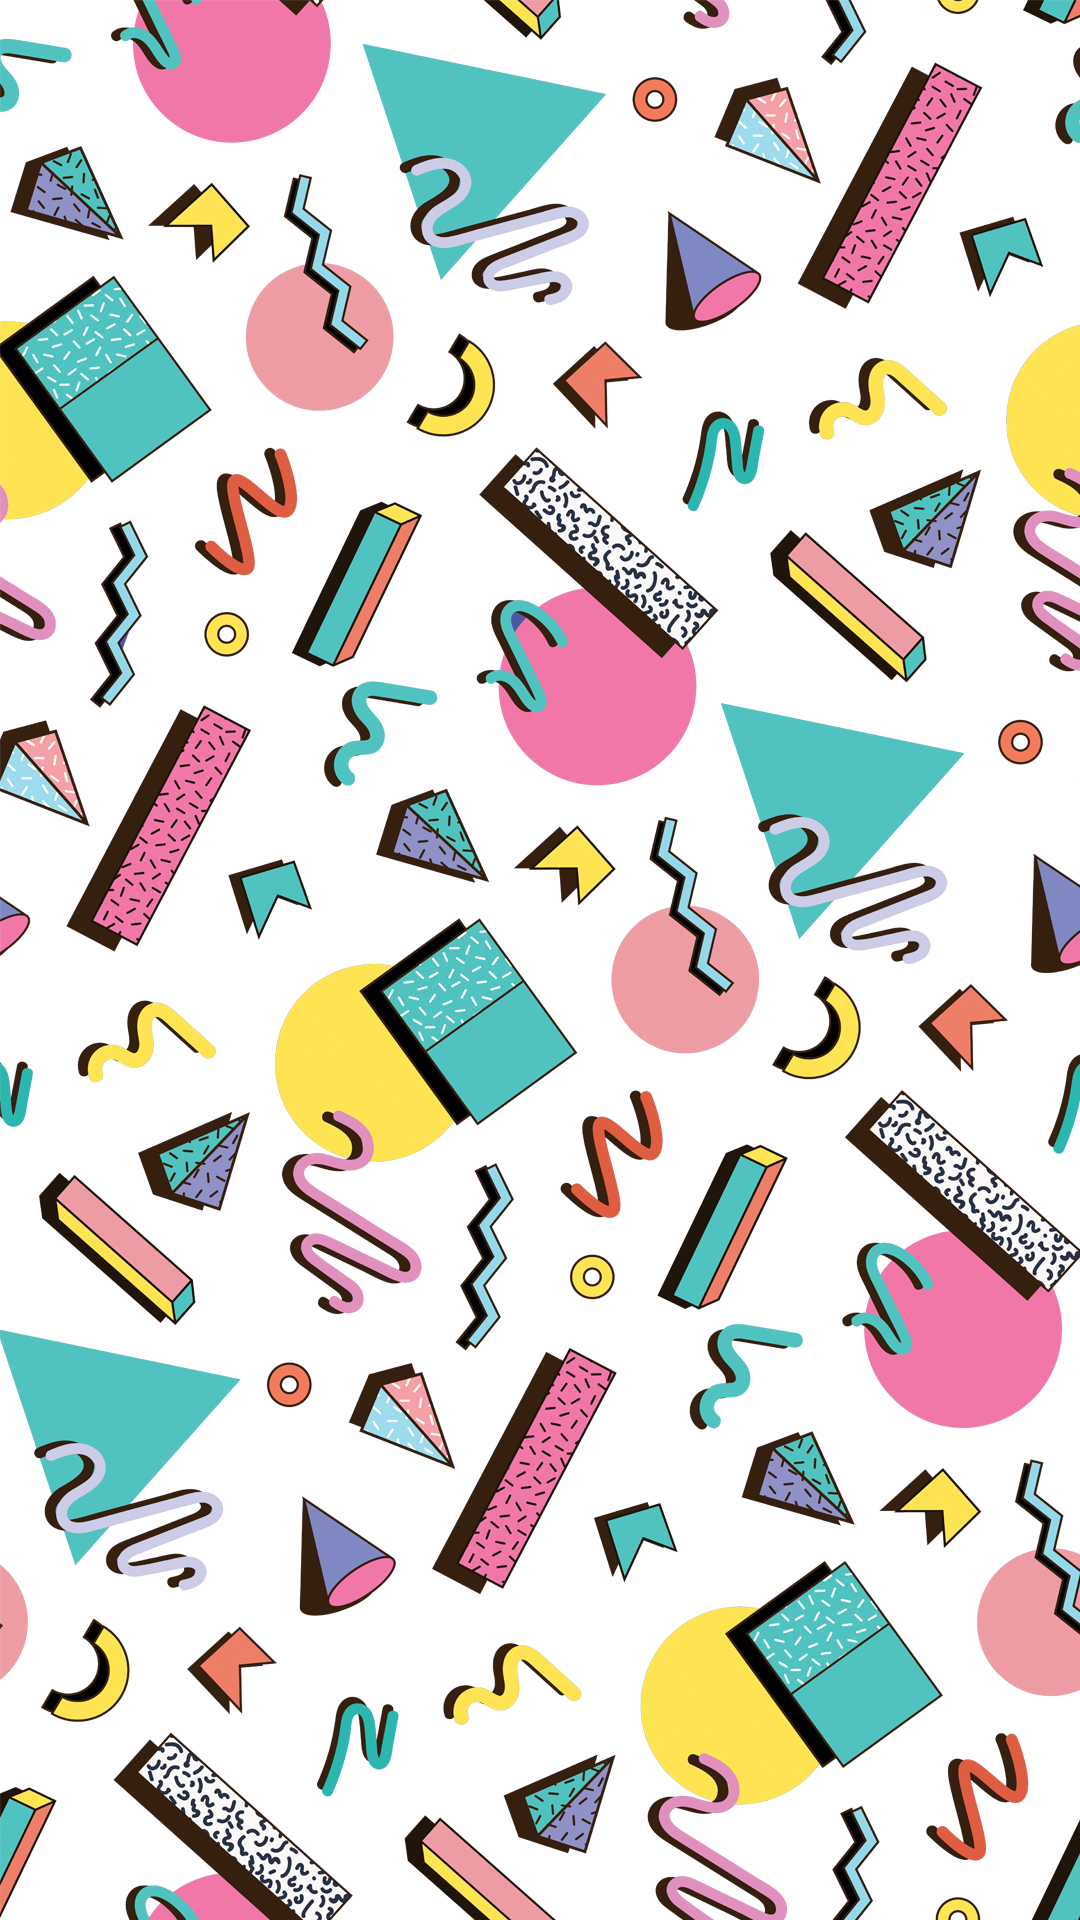
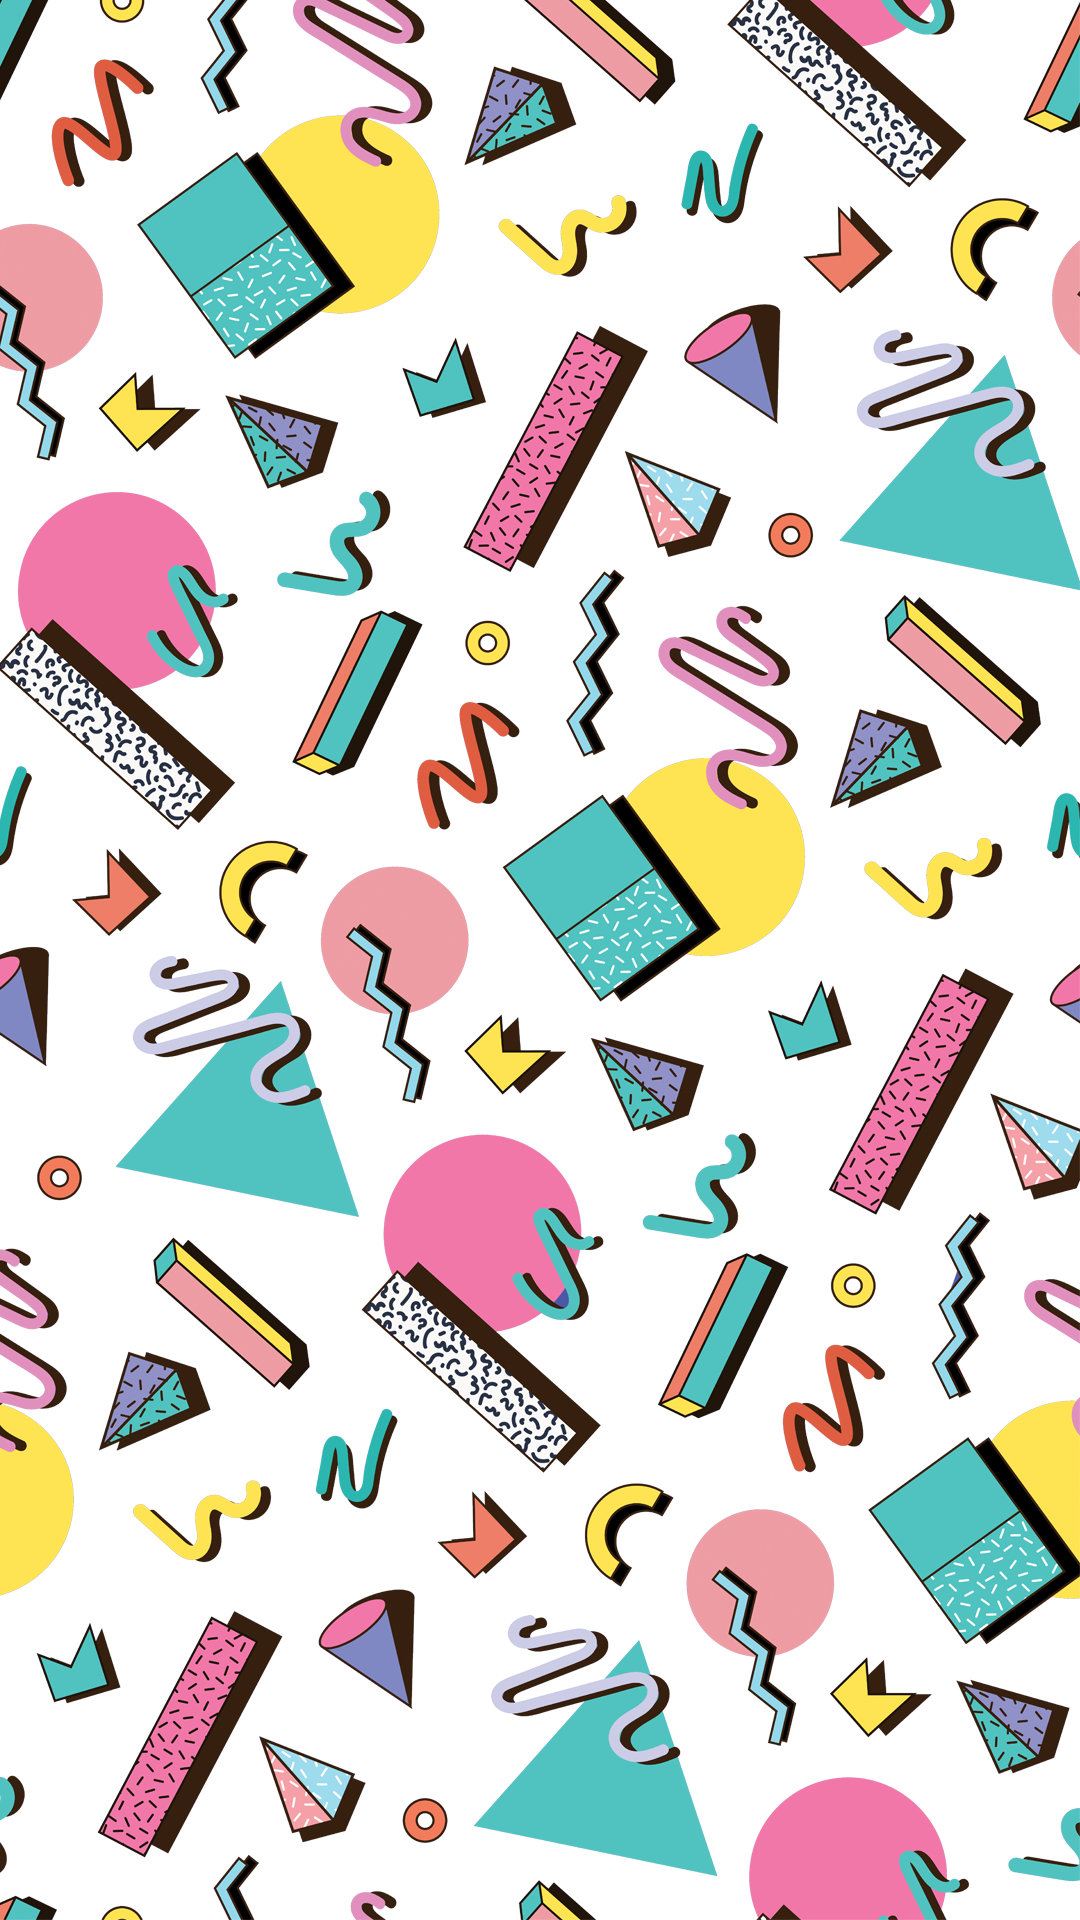
Added new bg image, changes to meme page and css

diff --git a/public/assets/css/styles.css b/public/assets/css/styles.css
@@ -14,24 +14,26 @@
 
 /* Styling for Background Image */
 body {
-  background-image: url("/assets/images/newbg.png");
+  background-image: url("newbg.png");
   background-color: #252525;
-  background-repeat: cover;
+  background-position: center;
+  background-repeat: no-repeat;
+  background-size: cover;
 }
 
-/* .parallax{
-     background-image: url("/newbg.png");
-      background-color: #252525;
-      background-repeat: repeat;
-      display: flex;
-      flex-direction: column;
-      min-height: 15rem;
-      height: 500px;
-      background-size: cover;
-      background-attachment: fixed;
-      align-items: center;
-      justify-content: center;
-  } */
+.parallax {
+  background-image: url("/newbg.png");
+  background-color: #252525;
+  background-repeat: repeat;
+  display: flex;
+  flex-direction: column;
+  min-height: 15rem;
+  height: 500px;
+  background-size: cover;
+  background-attachment: fixed;
+  align-items: center;
+  justify-content: center;
+}
 
 /* logo image styling */
 .logo-img {
@@ -44,12 +46,18 @@ body {
   font-family: "Oswald", sans-serif;
   font-size: 28px;
   font-weight: 400;
+  text-shadow: 2px 2px #4c58a7;
 }
 
 /* Meme Title Font on Meme Thumbnails */
 h2 {
   color: #fefefe;
   font-family: "Molle", serif;
+}
+
+/* Titles on pop-up modals */
+h5 {
+  color: #000000;
 }
 
 .form-control {
@@ -80,7 +88,14 @@ h2 {
   text-decoration: none;
   color: white;
   background-color: #2fd3cb;
+  border: 1px solid #fefefe;
   font-family: "Oswald", sans-serif;
+}
+
+.mainButtons:hover {
+  background-color: #fefefe;
+  border: 1px solid #2fd3cb;
+  color: #2fd3cb;
 }
 
 /* Card Styles for Image Thumbnails on index.html */
@@ -113,7 +128,8 @@ h2 {
 /* Styling for Div Container */
 .meme-generator {
   background-color: #4c58a7;
-  padding: 20px;
+  padding: 10px;
+  margin-bottom: 20px;
   border-radius: 5px;
 }
 
@@ -121,7 +137,7 @@ h2 {
 #top,
 #bottom {
   color: #000000;
-  width: 100%;
+  width: 75%;
   margin-bottom: 10px;
 }
 
@@ -148,6 +164,59 @@ h2 {
 }
 
 /* Styling for Instruction Headings */
+.h2-instructions {
+  margin-bottom: 20px;
+}
+
+/* Styling for instructions divs */
 .instructions {
-  margin-bottom: 40px;
+  padding: 20px 20px 30px;
+}
+
+/* Choose File Button */
+.fileUpload {
+  position: relative;
+  overflow: hidden;
+  margin: 10px;
+  padding: 5px 10px;
+  cursor: pointer;
+  border: 1px solid #fefefe;
+  border-radius: 5px;
+  background-color: #2fd3cb;
+  font-size: 16px;
+  color: #fff;
+}
+
+.fileUpload:hover {
+  background-color: #fefefe;
+  border: 1px solid #2fd3cb;
+  font-size: 16px;
+  color: #2fd3cb;
+}
+
+.fileUpload input.upload {
+  position: absolute;
+  top: 0;
+  right: 0;
+  margin: 0;
+  padding: 0;
+  cursor: pointer;
+  opacity: 0;
+  filter: alpha(opacity=0);
+}
+
+/* Styling for file name field next to Choose File button */
+input[type="text"]:disabled {
+  background: #fefefe;
+  color: #252525;
+}
+
+/* styling for div containing created meme */
+#canvas {
+  text-align: center;
+}
+
+#meme-canvas {
+  width: 100%;
+  padding: 20px 20px;
 }
